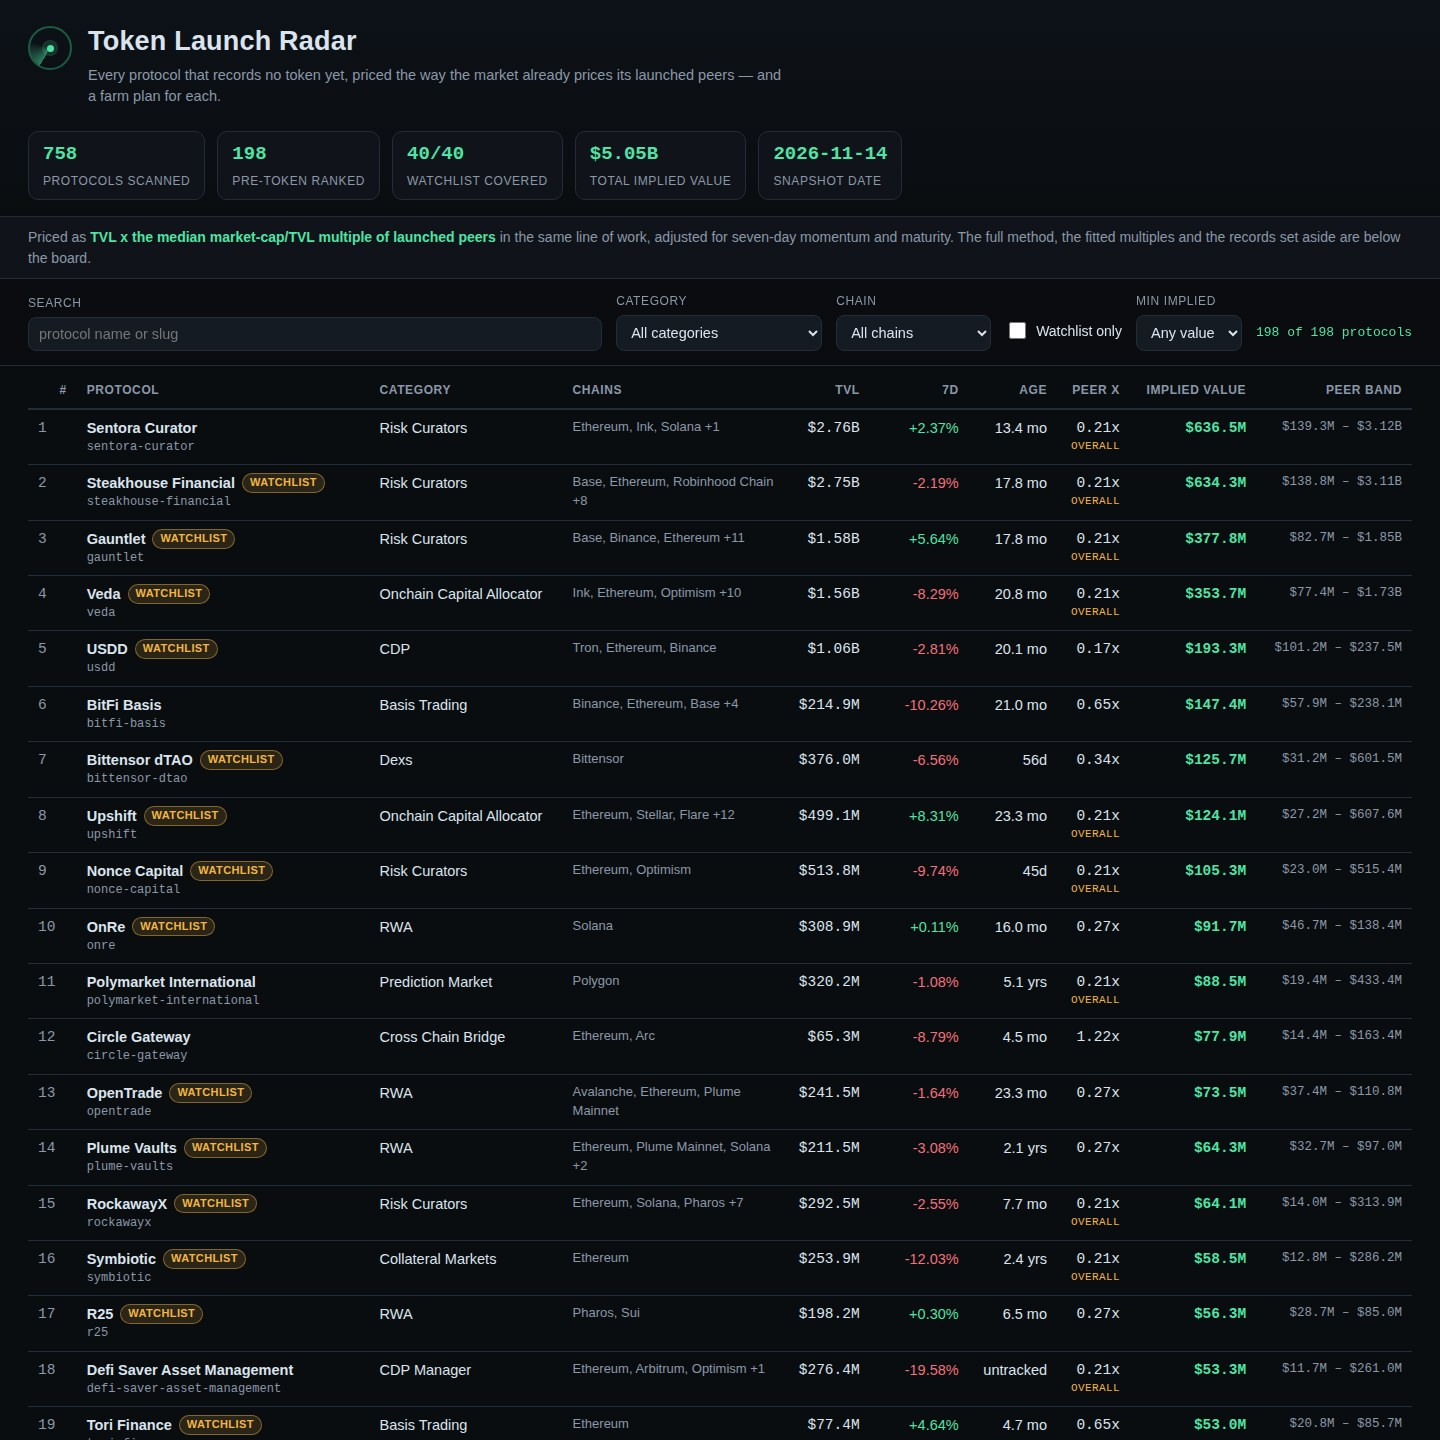
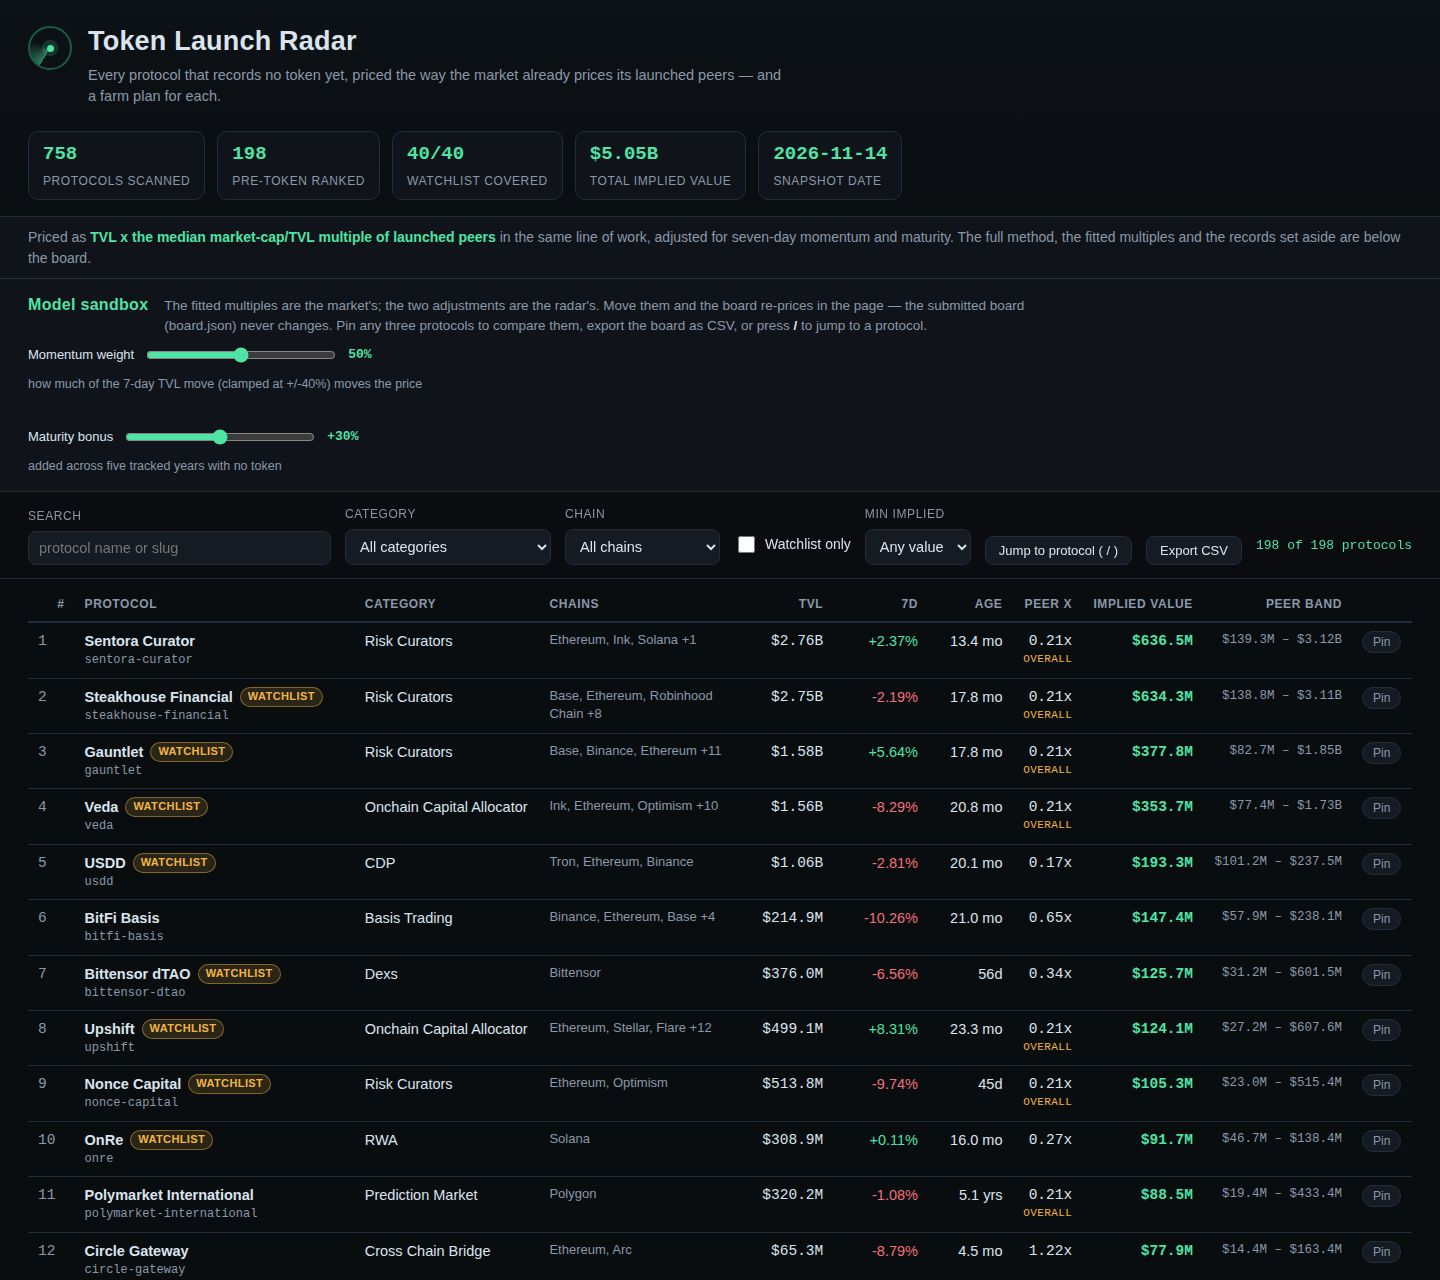
Round 2: model sandbox, compare with pins, CSV export, command palette
The dev judge won every match on the fitted model but capped 19 of 20
games at 3 of 5 because the rival pages were richer: sandbox, compare,
palette, pins, export. This adds exactly those tools to the page —
a live model sandbox that re-prices the board in-page at the readers

diff --git a/dashboard/app.js b/dashboard/app.js
@@ -79,7 +79,37 @@ function renderMethod() {
 
 // ------------------------------------------------------------- board
 
-const state = { sortKey: 'rank', sortDir: 1, selected: null };
+const state = { sortKey: 'rank', sortDir: 1, selected: null, pins: [], sbW: 0.5, sbB: 0.30 };
+
+// ------------------------------------------------------------- sandbox
+
+// The sandbox re-prices the board in the page under the reader's own
+// momentum weight and maturity bonus, using the same formula the program
+// fits with: implied = TVL x fitted multiple x momentum x maturity. At the
+// model's own settings (50%, +30%) it returns the submitted board exactly;
+// board.json itself is never touched.
+function sandboxActive() {
+  return state.sbW !== 0.5 || state.sbB !== 0.30;
+}
+
+function viewOf(r) {
+  if (!sandboxActive()) return { implied: r.implied, low: r.impliedLow, high: r.impliedHigh };
+  const growth = Math.max(-40, Math.min(40, r.change_7d ?? 0));
+  const mom = 1 + (growth / 100) * state.sbW;
+  const mat = r.ageDays === null ? 1 : 1 + state.sbB * (Math.min(r.ageDays, 1825) / 1825);
+  const imp = Math.max(1, Math.round(r.tvl_usd * r.multiple * mom * mat));
+  const k = r.implied > 0 ? imp / r.implied : 1;
+  return { implied: imp, low: Math.round(r.impliedLow * k), high: Math.round(r.impliedHigh * k) };
+}
+
+function renderSandbox() {
+  $('sbWVal').textContent = Math.round(state.sbW * 100) + '%';
+  $('sbBVal').textContent = '+' + Math.round(state.sbB * 100) + '%';
+  $('sbReset').hidden = !sandboxActive();
+  $('sbNote').innerHTML = sandboxActive()
+    ? `<b>Sandbox pricing is on</b> — ranks and values below are re-priced in this page at momentum ${Math.round(state.sbW * 100)}% and maturity +${Math.round(state.sbB * 100)}%. The submitted board (board.json) is unchanged; reset returns to it.`
+    : `The fitted multiples are the market's; the two adjustments are the radar's. Move them and the board re-prices in the page — the submitted board (board.json) never changes. Pin any three protocols to compare them, export the board as CSV, or press <b>/</b> to jump to a protocol.`;
+}
 
 function filteredRows() {
   const q = $('q').value.trim().toLowerCase();
@@ -91,15 +121,19 @@ function filteredRows() {
     (cat === '' || (r.category ?? 'Uncategorised') === cat) &&
     (chain === '' || r.chains.includes(chain)) &&
     (!watchOnly || r.watchlist) &&
-    r.implied >= minImp &&
+    viewOf(r).implied >= minImp &&
     (q === '' || r.name.toLowerCase().includes(q) || r.slug.includes(q)));
 }
 
 function sortedRows(rows) {
+  // In sandbox mode the default order is the sandbox ranking itself.
+  if (sandboxActive() && state.sortKey === 'rank') {
+    return [...rows].sort((a, b) => viewOf(b).implied - viewOf(a).implied);
+  }
   const key = state.sortKey;
   const dir = state.sortDir;
   const val = (r) => {
-    const v = r[key];
+    const v = key === 'implied' ? viewOf(r).implied : r[key];
     return v === null || v === undefined ? -Infinity : v;
   };
   return [...rows].sort((a, b) => {
@@ -111,10 +145,11 @@ function sortedRows(rows) {
 
 function renderBoard() {
   const rows = sortedRows(filteredRows());
-  $('rowCount').textContent = `${rows.length} of ${R.rows.length} protocols`;
-  $('boardBody').innerHTML = rows.map((r) => `
+  const sb = sandboxActive();
+  $('rowCount').textContent = `${rows.length} of ${R.rows.length} protocols${sb ? ' · sandbox pricing' : ''}`;
+  $('boardBody').innerHTML = rows.map((r, i) => { const v = viewOf(r); return `
     <tr data-slug="${esc(r.slug)}"${state.selected === r.slug ? ' class="selected"' : ''}>
-      <td class="rank">${r.rank}</td>
+      <td class="rank">${sb ? i + 1 : r.rank}</td>
       <td class="name"><b>${esc(r.name)}</b>${r.watchlist ? '<span class="badge">WATCHLIST</span>' : ''}<span class="slug">${esc(r.slug)}</span></td>
       <td>${esc(r.category ?? 'Uncategorised')}</td>
       <td class="chains">${esc(r.chains.slice(0, 3).join(', '))}${r.chains.length > 3 ? ` +${r.chains.length - 3}` : ''}</td>
@@ -122,12 +157,125 @@ function renderBoard() {
       <td class="num">${fmtPct(r.change_7d)}</td>
       <td class="num">${fmtAge(r.ageDays)}</td>
       <td class="num money">${r.multiple.toFixed(2)}x${r.fitName === 'All categories' ? '<span class="overall">OVERALL</span>' : ''}</td>
-      <td class="num imp">${fmtMoney(r.implied)}</td>
-      <td class="num band">${fmtMoney(r.impliedLow)} – ${fmtMoney(r.impliedHigh)}</td>
-    </tr>`).join('');
+      <td class="num imp">${fmtMoney(v.implied)}</td>
+      <td class="num band">${fmtMoney(v.low)} – ${fmtMoney(v.high)}</td>
+      <td><button class="pinbtn${state.pins.includes(r.slug) ? ' on' : ''}" data-pin="${esc(r.slug)}" type="button">${state.pins.includes(r.slug) ? 'Pinned' : 'Pin'}</button></td>
+    </tr>`; }).join('');
   for (const tr of $('boardBody').querySelectorAll('tr')) {
     tr.addEventListener('click', () => openDetail(tr.dataset.slug));
   }
+  for (const b of $('boardBody').querySelectorAll('[data-pin]')) {
+    b.addEventListener('click', (e) => { e.stopPropagation(); togglePin(b.dataset.pin); });
+  }
+}
+
+// ------------------------------------------------------------- compare
+
+function togglePin(slug) {
+  const i = state.pins.indexOf(slug);
+  if (i >= 0) state.pins.splice(i, 1);
+  else {
+    if (state.pins.length >= 3) state.pins.shift();
+    state.pins.push(slug);
+  }
+  renderTray();
+  renderBoard();
+  if (!$('compare').hidden) openCompare();
+}
+
+function renderTray() {
+  const t = $('tray');
+  if (state.pins.length === 0) { t.hidden = true; t.innerHTML = ''; return; }
+  const names = state.pins.map((s) => { const r = R.rows.find((x) => x.slug === s); return r ? esc(r.name) : s; });
+  t.hidden = false;
+  t.innerHTML = `<span class="tray-label">Pinned for comparison:</span> ${names.join(' · ')}
+    <button class="closebtn" id="trayCompare" type="button" ${state.pins.length < 2 ? 'disabled' : ''}>Compare ${state.pins.length}</button>
+    <button class="closebtn" id="trayClear" type="button">Clear</button>`;
+  $('trayClear').addEventListener('click', () => { state.pins = []; renderTray(); renderBoard(); closeCompare(); });
+  const cmp = $('trayCompare');
+  if (cmp) cmp.addEventListener('click', openCompare);
+}
+
+/** The farm plan's closing line carries its own totals; read them back. */
+function planTotals(r) {
+  const last = r.farm_steps[r.farm_steps.length - 1] || '';
+  const fees = last.match(/about (\$[\d,]+) in fees/);
+  const weeks = last.match(/over (\d+) weeks/);
+  const cap = last.match(/plus (\$[\d,]+) of working capital/);
+  return { fees: fees ? fees[1] : '—', weeks: weeks ? weeks[1] : '—', cap: cap ? cap[1] : '—' };
+}
+
+function openCompare() {
+  const rows = state.pins.map((s) => R.rows.find((x) => x.slug === s)).filter(Boolean);
+  if (rows.length < 2) return;
+  const d = $('compare');
+  d.hidden = false;
+  const cell = (fn) => rows.map((r) => `<td>${fn(r)}</td>`).join('');
+  const num = (fn) => rows.map((r) => `<td class="num">${fn(r)}</td>`).join('');
+  d.innerHTML = `
+    <div class="detail-head">
+      <div><h2>Compare — ${rows.map((r) => esc(r.name)).join(' vs ')}</h2>
+      <span class="sub">Side by side on the radar's own numbers: the fitted price, the market band around it, and what farming each one costs.</span></div>
+      <button class="closebtn" id="compareClose" type="button">Close</button>
+    </div>
+    <div class="fits-wrap"><table class="fits cmp">
+      <tr><th></th>${rows.map((r) => `<th>#${r.rank} ${esc(r.name)}${r.watchlist ? '<span class="badge">WATCHLIST</span>' : ''}</th>`).join('')}</tr>
+      <tr><td>Category</td>${cell((r) => esc(r.category ?? 'Uncategorised'))}</tr>
+      <tr><td>Chains</td>${cell((r) => esc(r.chains.join(', ') || 'none recorded'))}</tr>
+      <tr><td>Total value locked</td>${num((r) => fmtFull(r.tvl_usd))}</tr>
+      <tr><td>TVL change, 7d</td>${num((r) => (r.change_7d === null ? 'unreported' : r.change_7d.toFixed(2) + '%'))}</tr>
+      <tr><td>Age with no token</td>${num((r) => fmtAge(r.ageDays))}</tr>
+      <tr><td>Peer multiple</td>${num((r) => r.multiple.toFixed(3) + 'x (' + esc(r.fitName) + ' fit)')}</tr>
+      <tr><td>Implied value</td>${num((r) => '<b>' + fmtFull(r.implied) + '</b>')}</tr>
+      <tr><td>Peer band (P25 – P75)</td>${num((r) => fmtFull(r.impliedLow) + ' – ' + fmtFull(r.impliedHigh))}</tr>
+      <tr><td>Farm plan</td>${cell((r) => { const t = planTotals(r); return `${r.farm_steps.length} steps · about ${t.fees} in fees over ${t.weeks} weeks, plus ${t.cap} of working capital`; })}</tr>
+      <tr><td>Core move</td>${cell((r) => esc(r.farm_steps[1] || ''))}</tr>
+    </table></div>`;
+  $('compareClose').addEventListener('click', closeCompare);
+  d.scrollIntoView({ block: 'nearest' });
+}
+
+function closeCompare() {
+  $('compare').hidden = true;
+}
+
+// ------------------------------------------------------------- export + palette
+
+function exportCsv() {
+  const rows = sortedRows(filteredRows());
+  const head = 'rank,name,slug,category,chains,tvl_usd,change_7d_pct,age_days,peer_multiple,implied_value_usd,band_low_usd,band_high_usd,watchlist';
+  const q = (s) => `"${String(s).replace(/"/g, '""')}"`;
+  const lines = rows.map((r) => [r.rank, q(r.name), r.slug, q(r.category ?? 'Uncategorised'), q(r.chains.join(' ')),
+    r.tvl_usd, r.change_7d ?? '', r.ageDays ?? '', r.multiple.toFixed(4), r.implied, r.impliedLow, r.impliedHigh, r.watchlist ? 1 : 0].join(','));
+  const blob = new Blob([head + '\n' + lines.join('\n') + '\n'], { type: 'text/csv' });
+  const a = document.createElement('a');
+  a.href = URL.createObjectURL(blob);
+  a.download = 'token-launch-radar-board.csv';
+  a.click();
+  URL.revokeObjectURL(a.href);
+}
+
+function paletteMatches() {
+  const q = $('palInput').value.trim().toLowerCase();
+  const hits = R.rows.filter((r) => q === '' || r.name.toLowerCase().includes(q) || r.slug.includes(q)).slice(0, 8);
+  $('palList').innerHTML = hits.map((r) =>
+    `<button class="pal-row" data-slug="${esc(r.slug)}" type="button"><b>#${r.rank} ${esc(r.name)}</b><span>${fmtMoney(r.implied)} implied · ${esc(r.category ?? 'Uncategorised')}</span></button>`).join('')
+    || '<p class="pal-none">No protocol matches.</p>';
+  for (const b of $('palList').querySelectorAll('[data-slug]')) {
+    b.addEventListener('click', () => { closePalette(); openDetail(b.dataset.slug); });
+  }
+  return hits;
+}
+
+function openPalette() {
+  $('palette').hidden = false;
+  $('palInput').value = '';
+  paletteMatches();
+  $('palInput').focus();
+}
+
+function closePalette() {
+  $('palette').hidden = true;
 }
 
 // ------------------------------------------------------------- detail
@@ -216,28 +364,56 @@ function fillFilters() {
 
 function applyHash() {
   // Screenshot staging and shareable views: #detail=<slug>, #cat=<category>,
-  // #chain=<chain>, #watch=1, #q=<text> preset the page on load.
+  // #chain=<chain>, #watch=1, #q=<text>, #compare=<slug,slug,slug> preset
+  // the page on load.
   const h = new URLSearchParams(location.hash.slice(1));
   if (h.get('cat')) $('cat').value = h.get('cat');
   if (h.get('chain')) $('chain').value = h.get('chain');
   if (h.get('watch') === '1') $('watchOnly').checked = true;
   if (h.get('q')) $('q').value = h.get('q');
+  if (h.get('compare')) {
+    state.pins = h.get('compare').split(',').filter((s) => R.rows.some((r) => r.slug === s)).slice(0, 3);
+    renderTray();
+  }
   renderBoard();
+  if (h.get('compare') && state.pins.length >= 2) openCompare();
   if (h.get('detail')) openDetail(h.get('detail'));
 }
 
 function init() {
   renderStats();
   renderMethod();
+  renderSandbox();
   fillFilters();
   renderLive();
   renderAside();
-  document.addEventListener('keydown', (e) => { if (e.key === 'Escape') closeDetail(); });
+  document.addEventListener('keydown', (e) => {
+    if (e.key === 'Escape') { closeDetail(); closePalette(); }
+    if ((e.key === '/' || (e.key.toLowerCase() === 'k' && (e.ctrlKey || e.metaKey))) &&
+        !/INPUT|SELECT|TEXTAREA/.test(document.activeElement.tagName)) {
+      e.preventDefault();
+      openPalette();
+    }
+  });
   $('footSource').textContent = `Data: ${R.source}. The board is regenerated from that sealed snapshot on every run of the program; nothing here is fetched live.`;
   for (const id of ['q', 'cat', 'chain', 'watchOnly', 'minImp']) {
     $(id).addEventListener('input', renderBoard);
     $(id).addEventListener('change', renderBoard);
   }
+  $('sbW').addEventListener('input', () => { state.sbW = Number($('sbW').value) / 100; renderSandbox(); renderBoard(); });
+  $('sbB').addEventListener('input', () => { state.sbB = Number($('sbB').value) / 100; renderSandbox(); renderBoard(); });
+  $('sbReset').addEventListener('click', () => {
+    state.sbW = 0.5; state.sbB = 0.30;
+    $('sbW').value = '50'; $('sbB').value = '30';
+    renderSandbox(); renderBoard();
+  });
+  $('csvBtn').addEventListener('click', exportCsv);
+  $('paletteBtn').addEventListener('click', openPalette);
+  $('palInput').addEventListener('input', paletteMatches);
+  $('palInput').addEventListener('keydown', (e) => {
+    if (e.key === 'Enter') { const hits = paletteMatches(); if (hits.length) { closePalette(); openDetail(hits[0].slug); } }
+  });
+  $('palette').addEventListener('click', (e) => { if (e.target === $('palette')) closePalette(); });
   for (const th of document.querySelectorAll('table.board th[data-sort]')) {
     th.addEventListener('click', () => {
       const key = th.dataset.sort;

diff --git a/dashboard/app.css b/dashboard/app.css
@@ -126,6 +126,53 @@ ol.steps li { margin-bottom: 9px; }
 .kv dt { color: var(--muted); } .kv dd { margin: 0; font-family: var(--mono); }
 .live { padding: 12px 0 4px; }
 .live-note { color: var(--muted); max-width: 900px; }
+.sandbox {
+  margin: 0; padding: 14px 28px 16px; background: var(--panel);
+  border-bottom: 1px solid var(--line);
+}
+.sb-head { display: flex; gap: 16px; align-items: baseline; flex-wrap: wrap; }
+.sb-head h2 { font-size: 16px; margin: 0; color: var(--signal); letter-spacing: .3px; }
+.sb-note { color: var(--muted); font-size: 13.5px; max-width: 880px; }
+.sb-note b { color: var(--text); }
+.sb-grid { display: flex; gap: 34px; flex-wrap: wrap; margin-top: 10px; }
+.sb-ctl { display: flex; align-items: center; gap: 10px; font-size: 13px; color: var(--text); flex-wrap: wrap; }
+.sb-ctl input[type="range"] { width: 190px; accent-color: var(--signal); }
+.sb-ctl b { font-family: var(--mono); color: var(--signal); min-width: 44px; }
+.sb-ctl span { color: var(--muted); font-size: 12.5px; flex-basis: 100%; }
+.pinbtn {
+  background: var(--panel-2); color: var(--muted); border: 1px solid var(--line);
+  border-radius: 99px; padding: 3px 10px; font-size: 12px; cursor: pointer; white-space: nowrap;
+}
+.pinbtn:hover { color: var(--signal); border-color: var(--signal-dim); }
+.pinbtn.on { color: var(--ink); background: var(--signal); border-color: var(--signal); font-weight: 700; }
+.tray {
+  position: fixed; left: 50%; transform: translateX(-50%); bottom: 18px; z-index: 9;
+  background: var(--panel-2); border: 1px solid var(--signal-dim); border-radius: 99px;
+  padding: 9px 12px 9px 20px; display: flex; gap: 12px; align-items: center;
+  box-shadow: 0 12px 34px rgba(0,0,0,.55); font-size: 14px; max-width: 92vw;
+}
+.tray[hidden] { display: none; }
+.tray-label { color: var(--muted); }
+table.fits.cmp td:first-child { color: var(--muted); white-space: nowrap; }
+table.fits.cmp td { max-width: 430px; }
+.palette {
+  position: fixed; inset: 0; z-index: 20; background: rgba(4,6,8,.72);
+  display: flex; justify-content: center; align-items: flex-start; padding-top: 12vh;
+}
+.palette[hidden] { display: none; }
+.palette-box {
+  width: min(560px, 92vw); background: var(--panel); border: 1px solid var(--signal-dim);
+  border-radius: 14px; padding: 14px; box-shadow: 0 24px 60px rgba(0,0,0,.6);
+}
+.palette-box input { width: 100%; }
+.pal-row {
+  display: flex; justify-content: space-between; gap: 14px; width: 100%; text-align: left;
+  background: none; border: none; border-bottom: 1px solid var(--line); color: var(--text);
+  padding: 9px 4px; cursor: pointer; font-size: 14.5px;
+}
+.pal-row:hover { background: var(--panel-2); }
+.pal-row span { color: var(--muted); font-family: var(--mono); font-size: 12.5px; }
+.pal-none { color: var(--muted); margin: 10px 4px 4px; }
 footer { padding: 14px 28px 26px; color: var(--muted); font-size: 13px; border-top: 1px solid var(--line); }
 footer p { margin: 4px 0; max-width: 1020px; }
 @media (max-width: 760px) {

diff --git a/dashboard/index.html b/dashboard/index.html
@@ -20,6 +20,18 @@
 
 <p class="strip" id="modelStrip"></p>
 
+<section class="sandbox" id="sandbox">
+  <div class="sb-head">
+    <h2>Model sandbox</h2>
+    <span class="sb-note" id="sbNote">The fitted multiples are the market's; the two adjustments are the radar's. Move them and the board re-prices in the page — the submitted board (board.json) never changes. Pin any three protocols to compare them, export the board as CSV, or press <b>/</b> to jump to a protocol.</span>
+    <button class="closebtn" id="sbReset" type="button" hidden>Reset to the model</button>
+  </div>
+  <div class="sb-grid">
+    <label class="sb-ctl">Momentum weight <input type="range" id="sbW" min="0" max="100" step="5" value="50"><b id="sbWVal">50%</b><span>how much of the 7-day TVL move (clamped at +/-40%) moves the price</span></label>
+    <label class="sb-ctl">Maturity bonus <input type="range" id="sbB" min="0" max="60" step="5" value="30"><b id="sbBVal">+30%</b><span>added across five tracked years with no token</span></label>
+  </div>
+</section>
+
 <section class="controls" id="controls">
   <label class="ctl grow">Search <input type="search" id="q" placeholder="protocol name or slug"></label>
   <label class="ctl">Category <select id="cat"></select></label>
@@ -30,11 +42,14 @@
     <option value="50000000">$50M+</option><option value="100000000">$100M+</option>
     <option value="500000000">$500M+</option><option value="1000000000">$1B+</option>
   </select></label>
+  <button class="closebtn" id="paletteBtn" type="button">Jump to protocol ( / )</button>
+  <button class="closebtn" id="csvBtn" type="button">Export CSV</button>
   <span class="ctl count" id="rowCount"></span>
 </section>
 
 <main>
   <section class="detail" id="detail" hidden></section>
+  <section class="detail compare" id="compare" hidden></section>
 
   <table class="board" id="board">
     <thead><tr>
@@ -42,7 +57,7 @@
       <th data-sort="category">Category</th><th>Chains</th>
       <th data-sort="tvl_usd" class="num">TVL</th><th data-sort="change_7d" class="num">7d</th>
       <th data-sort="ageDays" class="num">Age</th><th data-sort="multiple" class="num">Peer x</th>
-      <th data-sort="implied" class="num">Implied value</th><th class="num">Peer band</th>
+      <th data-sort="implied" class="num">Implied value</th><th class="num">Peer band</th><th></th>
     </tr></thead>
     <tbody id="boardBody"></tbody>
   </table>
@@ -65,6 +80,15 @@
     <div class="fits-wrap"><table class="fits" id="asideTable"></table></div>
   </section>
 </main>
+
+<div class="tray" id="tray" hidden></div>
+
+<div class="palette" id="palette" hidden>
+  <div class="palette-box">
+    <input type="search" id="palInput" placeholder="Type a protocol name or slug, Enter opens the first match">
+    <div id="palList"></div>
+  </div>
+</div>
 
 <footer>
   <p id="footSource"></p>

diff --git a/README.md b/README.md
@@ -49,12 +49,17 @@ MAKEFUN_OUTPUT_DIR=out node main.ts --input <path-to-snapshot.json>
 ```
 
 Then open `out/dashboard/index.html` in a browser. The page renders with no
-network: it reads only the `data.js` the program wrote beside it.
+network: it reads only the `data.js` the program wrote beside it. On the
+page: sort and filter the board, open any protocol's detail, re-price the
+whole board in the model sandbox (your own momentum weight and maturity
+bonus — the submitted board never changes), pin any three protocols to
+compare them side by side, export the board as CSV, or press `/` to jump
+straight to a protocol.
 
 ## Layout
 
 - `main.ts` — the program: input, outputs, gate self-check, dossier.
 - `lib/model.ts` — snapshot parsing, the fitted value model, farm plans.
 - `dashboard/` — the page: `index.html`, `app.css`, `app.js`.
-- `screenshots/` — the board, a detail view, and a filtered view.
+- `screenshots/` — the board, a detail view, a filtered view, and a comparison.
 - `vendor/makefun-board.ts` — the house dossier library, byte for byte.
